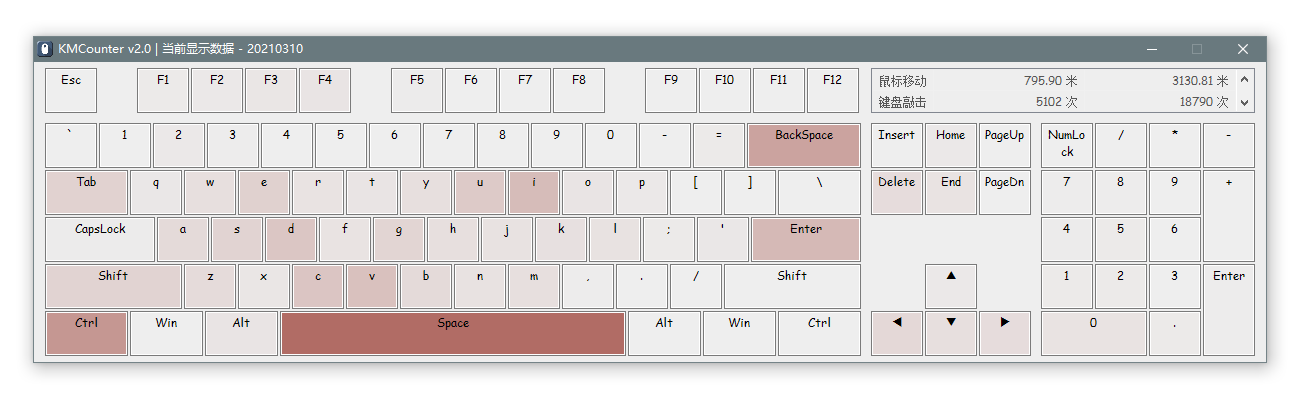
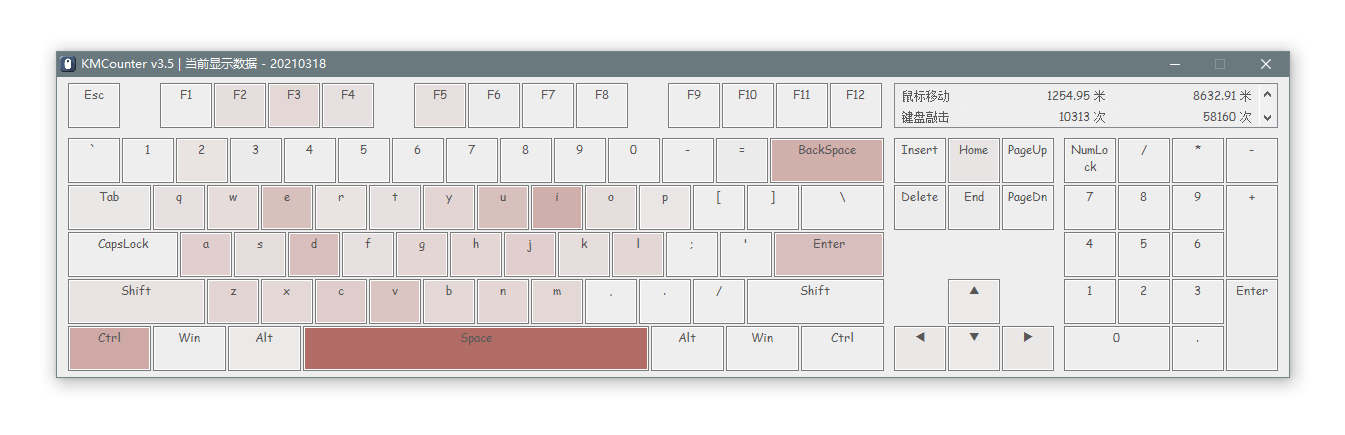
ver 3.5
支持热力图查看累积数据。
支持设置历史数据保留时长。
更直观的展示文字统计信息。
储存不在布局中的按键数据。
修复 右Shift 识别错误。

Changed region(s): [[0.0, 0.0585, 0.9846, 0.9073], [0.7077, 0.6439, 0.7692, 0.7024]]

diff --git a/README.md b/README.md
@@ -7,8 +7,8 @@ Use heatmap to show mouse and keyboard usage.
 * 运行后，KMCounter 将常驻托盘菜单进行统计，需要时点击托盘图标查看结果。  
 ![](https://raw.githubusercontent.com/telppa/KMCounter/main/screenshots/4.png)  
 
-* On the GUI of statistics, PageUp and PageDown or Mouse Wheel can view the historical statistics.  
-* 在统计界面下，使用 PageUp、PageDown 或 鼠标滚轮 可以查看历史结果。  
+* On the GUI of statistics, PageUp and PageDown or Up and Down or Mouse Wheel can view the historical statistics.  
+* 在统计界面下，使用 翻页键 或 上下键 或 鼠标滚轮 可以查看历史结果。  
 ![](https://raw.githubusercontent.com/telppa/KMCounter/main/screenshots/3.gif)  
 
 ## Features (特性)  
@@ -35,13 +35,13 @@ Use heatmap to show mouse and keyboard usage.
 > 不写系统不留垃圾。  
 
 ## Note (注意)  
-* KMCounter use hook to statistics mouse and keyboard info, so antivirus may be false alarm risk, just add to the trust list.  
+* KMCounter uses the hook to statistics mouse and keyboard info, so antivirus may be a false alarm risk, just add to the trust list.  
 * KMCounter 使用钩子统计键鼠使用情况，所以杀软可能会误报风险，加白名单即可。  
 
 ## Download (下载)  
-* ver 3.2  
+* ver 3.5  
 [Github Releases](https://github.com/telppa/KMCounter/releases)  
-[蓝奏云](https://ahk.lanzous.com/icynmmzh54d)  
+[蓝奏云](https://ahk.lanzous.com/i22G6n3y30d)  
 
 ## Screenshots (截图)  
 ![](https://raw.githubusercontent.com/telppa/KMCounter/main/screenshots/3.gif)  
